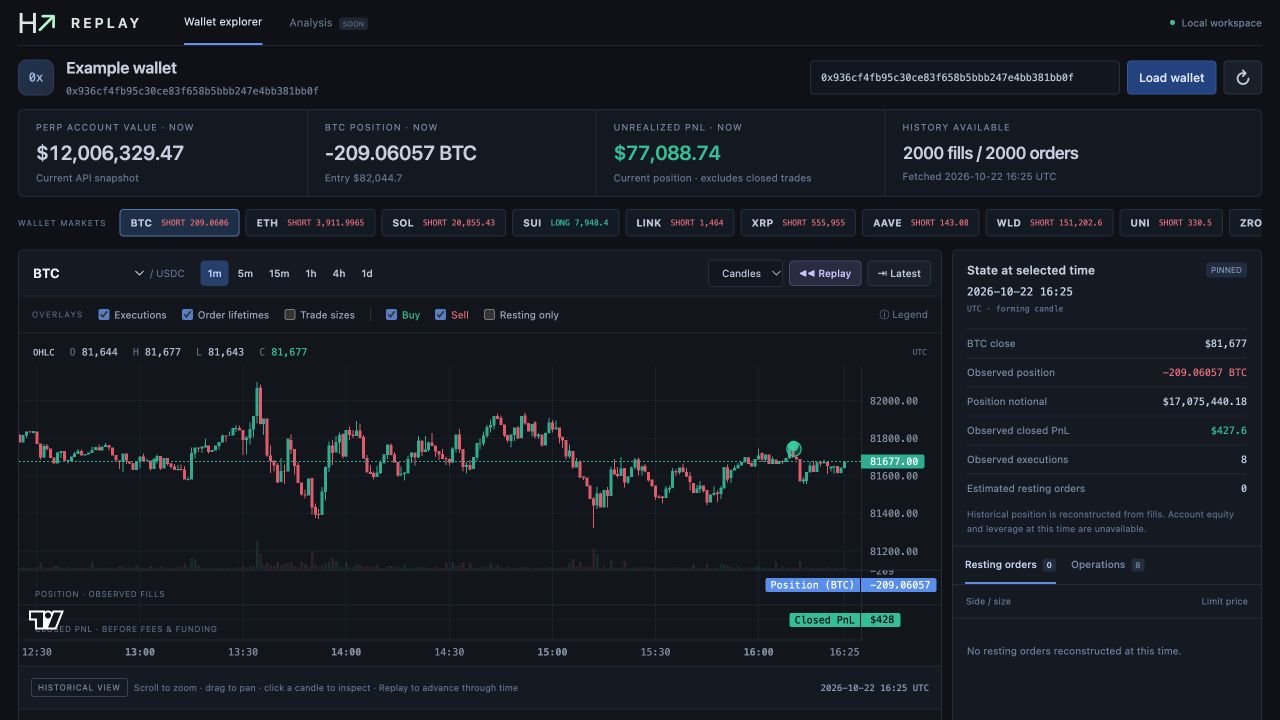
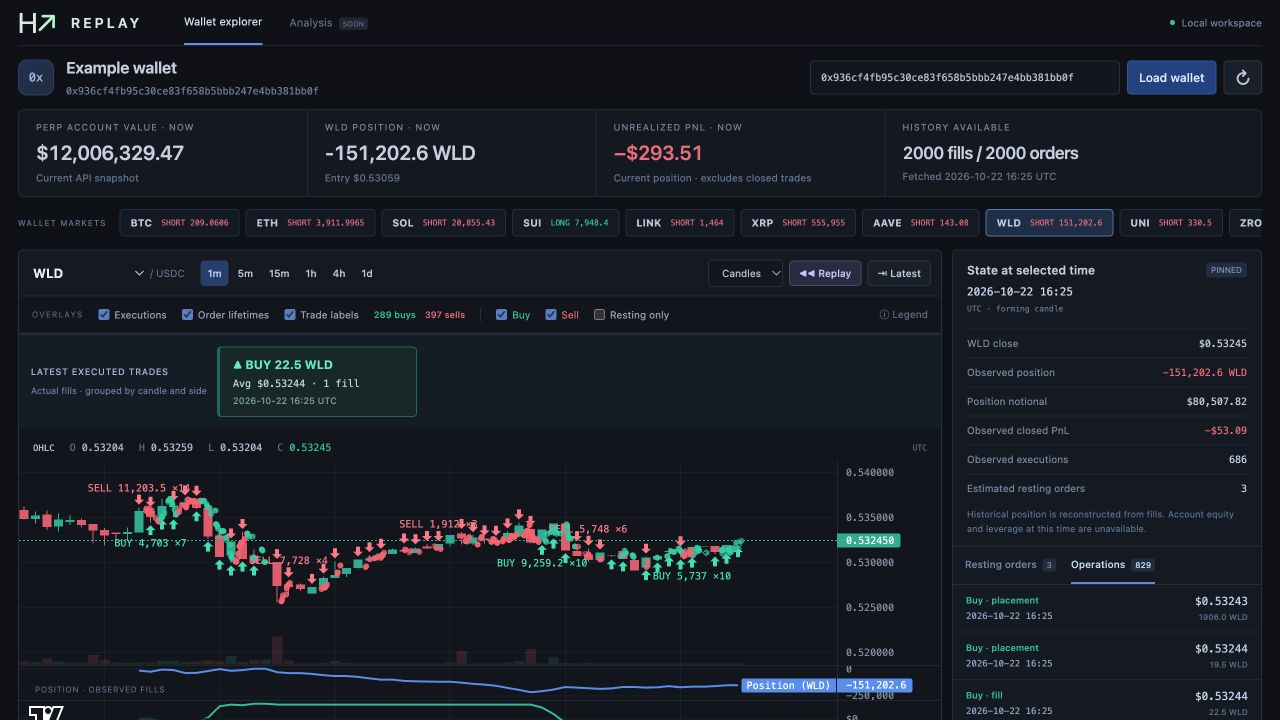
Make executions explicit and replay trades instead of empty candles

diff --git a/src/main.tsx b/src/main.tsx
@@ -2,6 +2,7 @@ import { useEffect, useMemo, useState } from 'react';
 import { createRoot } from 'react-dom/client';
 import { eventsFrom, stateAt, type Snapshot, type ReplayEvent } from '../shared/replay';
 import { EXAMPLE_WALLET, INTERVALS, candleIndexAt, type Candle, type Interval } from '../shared/market';
+import { executionGroups, tradeBars, nextTradeBar } from '../shared/executions';
 import { MarketChart } from './MarketChart';
 import type { OverlayOptions } from './OperationOverlay';
 import './style.css';
@@ -20,15 +21,16 @@ function App(){
   const [cursor,setCursor]=useState(0);
   const [replay,setReplay]=useState(false);
   const [playing,setPlaying]=useState(false);
-  const [speed,setSpeed]=useState(4);
+  const [speed,setSpeed]=useState(1);
+  const [replayMode,setReplayMode]=useState<'trades'|'candles'>('trades');
   const [busy,setBusy]=useState(false);
   const [chartBusy,setChartBusy]=useState(false);
   const [error,setError]=useState('');
   const [chartError,setChartError]=useState('');
   const [retry,setRetry]=useState(0);
   const [chartType,setChartType]=useState<'candles'|'line'>('candles');
-  const [options,setOptions]=useState<OverlayOptions>({fills:true,orders:true,labels:false,buys:true,sells:true,currentOnly:false});
-  const [tab,setTab]=useState<'orders'|'events'>('orders');
+  const [options,setOptions]=useState<OverlayOptions>({fills:true,orders:true,labels:true,buys:true,sells:true,currentOnly:false});
+  const [tab,setTab]=useState<'orders'|'events'>('events');
   const [selectedEvent,setSelectedEvent]=useState<ReplayEvent>();
   const [resetKey,setResetKey]=useState(0);
   const allEvents=useMemo(()=>snapshot?eventsFrom(snapshot):[],[snapshot]);
@@ -44,7 +46,7 @@ function App(){
         if(response.status===404)next=await request<Snapshot>(`/api/wallet/${address}/sync`,'POST');
         else {const body=await response.json();if(!response.ok)throw new Error(body.error);next=body;}
       }
-      setSnapshot(next);const normalized=eventsFrom(next);const available=[...new Set(normalized.map(e=>e.coin))];const selected=available.includes('BTC')?'BTC':next.account?.assetPositions[0]?.position.coin??available[0]??'BTC';setCoin(selected);const first=normalized.find(e=>e.coin===selected)?.time;setIntervalValue(suggestedInterval(first?next.fetchedAt-first:30*86400000));setSelectedEvent(undefined);
+      setSnapshot(next);const normalized=eventsFrom(next);const available=[...new Set(normalized.map(e=>e.coin))];const counts=new Map<string,number>();for(const e of normalized)if(e.kind==='fill')counts.set(e.coin,(counts.get(e.coin)??0)+1);const selected=[...counts].sort((a,b)=>b[1]-a[1])[0]?.[0]??next.account?.assetPositions[0]?.position.coin??available[0]??'BTC';setCoin(selected);const first=normalized.find(e=>e.coin===selected)?.time;setIntervalValue(suggestedInterval(first?next.fetchedAt-first:30*86400000));setSelectedEvent(undefined);
     }catch(err){setError(err instanceof Error?err.message:'Could not load wallet');}
     finally{setBusy(false);}
   }
@@ -64,20 +66,22 @@ function App(){
     }).catch(err=>{if(!controller.signal.aborted)setChartError(err.message);}).finally(()=>{if(!controller.signal.aborted)setChartBusy(false);});
     return()=>controller.abort();
   },[snapshot,coin,interval,retry]);
-  const replayStart=useMemo(()=>{const first=events.find(e=>candles.length&&e.time>=candles[0].time*1000);return Math.max(0,candleIndexAt(candles,first?first.time/1000:candles[0]?.time??0)-5);},[events,candles]);
+  const groups=useMemo(()=>executionGroups(candles,events,INTERVALS[interval]),[candles,events,interval]);
+  const bars=useMemo(()=>tradeBars(groups),[groups]);
+  const replayStart=Math.max(0,(bars[0]??0)-1);
   useEffect(()=>{
     if(!playing)return;
-    const timer=window.setInterval(()=>setCursor(value=>{if(value>=candles.length-1){setPlaying(false);return value;}return value+1;}),1000/speed);
+    const timer=window.setInterval(()=>setCursor(value=>{const next=replayMode==='trades'?nextTradeBar(bars,value,1):value<candles.length-1?value+1:undefined;if(next===undefined){setPlaying(false);return value;}return next;}),1000/speed);
     return()=>window.clearInterval(timer);
-  },[playing,speed,candles.length]);
+  },[playing,speed,candles.length,bars,replayMode]);
   useEffect(()=>{
     function key(event:KeyboardEvent){if(event.target instanceof HTMLInputElement||event.target instanceof HTMLSelectElement||event.target instanceof HTMLTextAreaElement)return;
-      if(event.code==='Space'){event.preventDefault();if(candles.length){if(!replay){setReplay(true);if(cursor>=candles.length-1)setCursor(replayStart);}setPlaying(p=>!p);}}
-      if(event.code==='ArrowRight'&&replay){event.preventDefault();setPlaying(false);setCursor(i=>Math.min(candles.length-1,i+1));}
-      if(event.code==='ArrowLeft'&&replay){event.preventDefault();setPlaying(false);setCursor(i=>Math.max(0,i-1));}
+      if(event.code==='Space'){event.preventDefault();if(candles.length){if(!replay){setReplay(true);if(cursor>=candles.length-1||replayMode==='trades'&&nextTradeBar(bars,cursor,1)===undefined)setCursor(replayStart);}setPlaying(p=>!p);}}
+      if(event.code==='ArrowRight'&&replay){event.preventDefault();setPlaying(false);setCursor(i=>replayMode==='trades'?nextTradeBar(bars,i,1)??i:Math.min(candles.length-1,i+1));}
+      if(event.code==='ArrowLeft'&&replay){event.preventDefault();setPlaying(false);setCursor(i=>replayMode==='trades'?nextTradeBar(bars,i,-1)??i:Math.max(0,i-1));}
     }
     window.addEventListener('keydown',key);return()=>window.removeEventListener('keydown',key);
-  },[replay,candles.length,cursor,replayStart]);
+  },[replay,candles.length,cursor,replayStart,bars,replayMode]);
   const step=INTERVALS[interval];
   const cutoff=candles.length?Math.min(snapshot?.fetchedAt??Infinity,((candles[cursor+1]?.time??candles[cursor]?.time+step)*1000)-1):0;
   const index=events.findLastIndex(e=>e.time<=cutoff);
@@ -87,12 +91,16 @@ function App(){
   const pnl=fills.reduce((sum,e)=>sum+Number(e.fill!.closedPnl),0);
   const marketEvents=events.filter(e=>candles.length&&e.time>=candles[0].time*1000&&e.time<(candles.at(-1)!.time+step)*1000);
   const renderedEvents=marketEvents.filter(e=>!replay||e.time<=cutoff);
+  const revealedGroups=groups.filter(g=>!replay||g.index<=cursor);
+  const focusGroups=replay?revealedGroups.filter(g=>g.index===cursor):revealedGroups.filter(g=>g.index===revealedGroups.at(-1)?.index);
+  const buyCount=marketEvents.filter(e=>e.kind==='fill'&&e.side==='B').length;
+  const sellCount=marketEvents.filter(e=>e.kind==='fill'&&e.side==='A').length;
   const current=snapshot?.account?.assetPositions.find(p=>p.position.coin===coin)?.position;
   const accountValue=snapshot?.account?Number(snapshot.account.marginSummary.accountValue):null;
   const isSpot=coin.startsWith('@')||coin.includes('/');
   const toggle=(key:keyof OverlayOptions)=>setOptions(o=>({...o,[key]:!o[key]}));
   function selectMarket(market:string){setCoin(market);setSelectedEvent(undefined);const first=allEvents.find(e=>e.coin===market)?.time;setIntervalValue(suggestedInterval(first&&snapshot?snapshot.fetchedAt-first:30*86400000));}
-  function startReplay(){if(!candles.length)return;setReplay(true);setPlaying(true);if(cursor>=candles.length-1)setCursor(replayStart);}
+  function startReplay(){if(!candles.length)return;setReplay(true);setPlaying(true);setTab('events');if(cursor>=candles.length-1||replayMode==='trades'&&nextTradeBar(bars,cursor,1)===undefined)setCursor(replayStart);}
   function latest(){setReplay(false);setPlaying(false);setCursor(Math.max(0,candles.length-1));setSelectedEvent(undefined);setResetKey(k=>k+1);}
   function seek(event:ReplayEvent){const at=candleIndexAt(candles,event.time/1000);if(at>=0){setCursor(at);setPlaying(false);setSelectedEvent(event);}}
   return <main className="terminal">
@@ -104,9 +112,10 @@ function App(){
     <section className="workspace">
       <div className="chart-column">
         <div className="chart-toolbar"><label className="market-select"><select aria-label="Market" value={coin} onChange={e=>selectMarket(e.target.value)}>{markets.map(m=><option key={m}>{m}</option>)}</select><span>/ USDC</span></label><div className="intervals">{(Object.keys(INTERVALS) as Interval[]).map(item=><button key={item} className={item===interval?'active':''} onClick={()=>setIntervalValue(item)}>{item}</button>)}</div><div className="toolbar-spacer"/><select aria-label="Chart type" value={chartType} onChange={e=>setChartType(e.target.value as 'candles'|'line')}><option value="candles">Candles</option><option value="line">Line</option></select><button className={replay?'replay-button active':'replay-button'} disabled={!candles.length||chartBusy} onClick={startReplay}>◀◀ Replay</button><button onClick={latest} disabled={!candles.length}>⇥ Latest</button></div>
-        <div className="overlay-toolbar"><span className="toolbar-label">OVERLAYS</span>{(['fills','orders','labels'] as const).map(key=><label key={key}><input type="checkbox" checked={options[key]} onChange={()=>toggle(key)}/>{key==='fills'?'Executions':key==='orders'?'Order lifetimes':'Trade sizes'}</label>)}<span className="divider"/>{(['buys','sells'] as const).map(key=><label className={key==='buys'?'positive':'negative'} key={key}><input type="checkbox" checked={options[key]} onChange={()=>toggle(key)}/>{key==='buys'?'Buy':'Sell'}</label>)}<label><input type="checkbox" checked={options.currentOnly} onChange={()=>toggle('currentOnly')}/>Resting only</label><span className="legend-info" title="Circles are API fill records. Dashed lines are estimated order lifetimes from order timestamps and latest fields.">ⓘ Legend</span></div>
+        <div className="overlay-toolbar"><span className="toolbar-label">OVERLAYS</span>{(['fills','orders','labels'] as const).map(key=><label key={key}><input type="checkbox" checked={options[key]} onChange={()=>toggle(key)}/>{key==='fills'?'Executions':key==='orders'?'Order lifetimes':'Trade labels'}</label>)}<span className="execution-counts"><b className="positive">{buyCount} buys</b><b className="negative">{sellCount} sells</b></span><span className="divider"/>{(['buys','sells'] as const).map(key=><label className={key==='buys'?'positive':'negative'} key={key}><input type="checkbox" checked={options[key]} onChange={()=>toggle(key)}/>{key==='buys'?'Buy':'Sell'}</label>)}<label><input type="checkbox" checked={options.currentOnly} onChange={()=>toggle('currentOnly')}/>Resting only</label><span className="legend-info" title="Circles are API fill records. Dashed lines are estimated order lifetimes from order timestamps and latest fields.">ⓘ Legend</span></div>
+        <div className="trade-focus" aria-live="polite"><div className="trade-focus-title">{replay?'TRADES AT REPLAY CURSOR':'LATEST EXECUTED TRADES'}<small>{replay?'One step per candle containing executions':'Actual fills · grouped by candle and side'}</small></div>{focusGroups.length?focusGroups.map(g=><button key={`${g.index}:${g.side}`} className={`trade-card ${g.side==='B'?'trade-buy':'trade-sell'}`} onClick={()=>{seek(g.events.at(-1)!);setTab('events');}}><b>{g.side==='B'?'▲ BUY':'▼ SELL'} {fmt(g.size,5)} {coin}</b><span>Avg {price(g.price)} · {g.count} fill{g.count===1?'':'s'}</span><small>{date(candles[g.index].time)} UTC</small></button>):<span className="no-execution">{replay?'No executions in this candle. The next trade step jumps to the next execution.':'No executions for this market in the fetched history.'}</span>}</div>
         <div className="chart-container"><MarketChart coin={coin} barSeconds={step} candles={candles} events={events} cursor={cursor} replay={replay} options={options} chartType={chartType} resetKey={`${resetKey}:${coin}:${interval}`} onSelect={i=>{setCursor(i);setPlaying(false);setSelectedEvent(undefined);}}/>{(chartBusy||busy)&&<div className="chart-loading"><span className="spinner"/>Loading {busy?'wallet history':'market candles'}…</div>}{chartError&&<div className="chart-loading"><p>{chartError}</p><button onClick={()=>setRetry(r=>r+1)}>Retry candles</button></div>}</div>
-        <div className={`replay-strip ${replay?'is-replay':''}`}><span className="mode-pill">{replay?'REPLAY':'HISTORICAL VIEW'}</span>{replay?<><button aria-label="Previous candle" onClick={()=>{setPlaying(false);setCursor(i=>Math.max(0,i-1));}}>◁</button><button className="play-button" onClick={()=>{if(cursor===candles.length-1)setCursor(replayStart);setPlaying(p=>!p);}}>{playing?'Ⅱ Pause':'▶ Play'}</button><button aria-label="Next candle" onClick={()=>{setPlaying(false);setCursor(i=>Math.min(candles.length-1,i+1));}}>▷</button><select aria-label="Playback speed" value={speed} onChange={e=>setSpeed(Number(e.target.value))}>{[1,4,12,30].map(s=><option key={s} value={s}>{s} bars/s</option>)}</select><input aria-label="Replay timeline" type="range" min={0} max={Math.max(0,candles.length-1)} value={Math.min(cursor,Math.max(0,candles.length-1))} onChange={e=>{setPlaying(false);setCursor(Number(e.target.value));}}/><button onClick={latest}>Exit replay</button></>:<span className="replay-hint">Scroll to zoom · drag to pan · click a candle to inspect · Replay to advance through time</span>}<time>{candles[cursor]?`${date(candles[cursor].time)} UTC`:'—'}</time></div>
+        <div className={`replay-strip ${replay?'is-replay':''}`}><span className="mode-pill">{replay?'REPLAY':'HISTORICAL VIEW'}</span>{replay?<><button aria-label="Previous trade or candle" onClick={()=>{setPlaying(false);setCursor(i=>replayMode==='trades'?nextTradeBar(bars,i,-1)??i:Math.max(0,i-1));}}>◁</button><button className="play-button" onClick={()=>{if(cursor===candles.length-1||replayMode==='trades'&&nextTradeBar(bars,cursor,1)===undefined)setCursor(replayStart);setPlaying(p=>!p);}}>{playing?'Ⅱ Pause':'▶ Play'}</button><button aria-label="Next trade or candle" onClick={()=>{setPlaying(false);setCursor(i=>replayMode==='trades'?nextTradeBar(bars,i,1)??i:Math.min(candles.length-1,i+1));}}>▷</button><select aria-label="Replay mode" value={replayMode} onChange={e=>{setPlaying(false);setReplayMode(e.target.value as 'trades'|'candles');}}><option value="trades">Trade replay</option><option value="candles">Candle replay</option></select><select aria-label="Playback speed" value={speed} onChange={e=>setSpeed(Number(e.target.value))}>{[1,4,12,30].map(s=><option key={s} value={s}>{s} steps/s</option>)}</select><input aria-label="Replay timeline" type="range" min={0} max={Math.max(0,candles.length-1)} value={Math.min(cursor,Math.max(0,candles.length-1))} onChange={e=>{setPlaying(false);setCursor(Number(e.target.value));}}/><button onClick={latest}>Exit replay</button></>:<span className="replay-hint">Scroll to zoom · drag to pan · click a candle to inspect · Replay to follow executed trades</span>}<time>{candles[cursor]?`${date(candles[cursor].time)} UTC`:'—'}</time></div>
         <div className="coverage-strip"><span className="status-dot"/><span>{candles.length?`${candles.length.toLocaleString()} candles · ${date(candles[0].time).slice(0,10)} — ${date(candles.at(-1)!.time).slice(0,10)}`:'Waiting for market data'}</span><span>{marketEvents.filter(e=>e.kind==='fill').length} fills in chart window</span>{events.length>marketEvents.length&&<span className="amber">{events.length-marketEvents.length} operations outside candle coverage</span>}<a href="https://www.tradingview.com/" target="_blank" rel="noreferrer">Charts by TradingView</a></div>
       </div>
       <aside className="inspector"><div className="inspector-heading"><h2>State at selected time</h2><span className={replay?'replay-dot':'pinned-dot'}>{replay?'REPLAY':'PINNED'}</span></div><div className="selected-date">{candles[cursor]?date(candles[cursor].time):'—'} <small>UTC · {candles[cursor]&&snapshot&&(candles[cursor].time+step)*1000>snapshot.fetchedAt?'forming candle':'candle close'}</small></div><dl><dt>{coin} close</dt><dd>{candles[cursor]?price(candles[cursor].close):'—'}</dd><dt>Observed position</dt><dd className={state.position!==null&&state.position<0?'negative':'positive'}>{state.position===null||isSpot?'Unknown':`${fmt(state.position,5)} ${coin}`}</dd><dt>Position notional</dt><dd>{state.position!==null&&!isSpot&&candles[cursor]?usd(Math.abs(state.position*candles[cursor].close)):'—'}</dd><dt>Observed closed PnL</dt><dd className={pnl>=0?'positive':'negative'}>{fills.length?usd(pnl):'—'}</dd><dt>Observed executions</dt><dd>{fills.length}</dd><dt>Estimated resting orders</dt><dd>{state.orders.length}</dd></dl><p className="inspector-note">{events.some(e=>e.kind==='fill')?'':`No ${coin} fills were returned in the bounded wallet history. `}Historical position is reconstructed from fills. Account equity and leverage at this time are unavailable.</p>{!isSpot&&state.discontinuities>0&&<p className="gap-warning">{state.discontinuities} position gaps detected in the available fills.</p>}

diff --git a/src/style.css b/src/style.css
@@ -1,3 +1,4 @@
 :root{font-family:Inter,-apple-system,BlinkMacSystemFont,'Segoe UI',sans-serif;color:#cdd5e3;background:#0c1018;font-synthesis:none;color-scheme:dark;font-size:12px}*{box-sizing:border-box}body{margin:0}button,input,select{font:inherit}button,select{cursor:pointer}button{border:1px solid #303a4c;border-radius:4px;background:#1b2331;color:#c4cede;padding:7px 11px;white-space:nowrap;font-weight:500}button:hover:not(:disabled){background:#283349;color:#fff}button:disabled{opacity:.4;cursor:default}input,select{background:#111722;color:#bec9dc;border:1px solid #2c3649;border-radius:4px;padding:7px 8px}button:focus-visible,input:focus-visible,select:focus-visible,a:focus-visible,summary:focus-visible{outline:2px solid #709cf7;outline-offset:2px}a{color:#8ea6ca;text-decoration:none}a:hover{color:#c4d9ff}.terminal{max-width:2200px;margin:auto;padding:0 18px}.topbar{height:57px;display:flex;align-items:center;border-bottom:1px solid #232b3c;gap:42px}.brand{display:flex;align-items:center;gap:9px;font-size:15px;font-weight:600;color:#e3eaf6;letter-spacing:-.3px}.brand b{color:#8b9cb8;font-weight:400}.brand-mark{display:grid;place-content:center;width:25px;height:25px;background:#183b38;color:#64d9bf;transform:skew(-8deg);font-size:17px}.top-nav{display:flex;gap:27px;height:100%;align-items:center;font-size:11px}.nav-active{height:100%;display:flex;align-items:center;border-bottom:2px solid #729bf6;color:#dce5f5}.nav-disabled{color:#6f7d95}.nav-disabled small{font-size:7px;padding:2px 4px;background:#232b3b;margin-left:3px;border-radius:3px}.local-badge{margin-left:auto;color:#7e8fa9;font-size:10px;display:flex;align-items:center;gap:7px}.local-badge i,.status-dot{display:inline-block;width:5px;height:5px;background:#43c5a5;border-radius:50%}.walletbar{display:flex;align-items:center;justify-content:space-between;padding:20px 0;gap:20px}.wallet-title{display:flex;align-items:center;gap:12px}.avatar{width:36px;height:36px;border-radius:9px;background:linear-gradient(140deg,#23395c,#263249);border:1px solid #354769;display:grid;place-content:center;color:#abc4ed;font:12px ui-monospace,monospace}h1{font-size:16px;letter-spacing:-.2px;font-weight:600;margin:0 0 6px}.address-label{font:10px ui-monospace,monospace;color:#7788a3}.walletbar form{display:flex;gap:7px}.walletbar input{width:310px;font:10px ui-monospace,monospace;padding:10px}.walletbar form>button:not(.button-icon){background:#254b8e;border-color:#3761a6;color:#e3ecff}.button-icon{font-size:18px;padding:2px 11px}.account-strip{display:grid;grid-template-columns:1fr 1fr 1fr 1.3fr;margin-bottom:18px;border:1px solid #273044;background:#121925;border-radius:6px}.metric{padding:15px 19px;border-right:1px solid #273044;min-width:0}.metric:last-child{border:0}.metric>span{display:block;color:#8292ad;font-size:9px;letter-spacing:1px}.metric strong{display:block;margin:10px 0 8px;font-size:22px;font-weight:550;letter-spacing:-.4px;font-variant-numeric:tabular-nums}.metric:last-child strong{font-size:18px;margin-top:12px}.metric small{color:#6f809b;font-size:10px}.positive{color:#2ec6a4!important}.negative{color:#ee7786!important}.workspace{display:grid;grid-template-columns:minmax(0,1fr) 310px;gap:10px;align-items:start}.chart-column{min-width:0;border:1px solid #283247;border-radius:5px;background:#11151e;overflow:hidden}.chart-toolbar{display:flex;gap:6px;align-items:center;min-height:46px;padding:7px 10px;border-bottom:1px solid #252e40;flex-wrap:wrap;background:#151b27}.market-select{display:flex;gap:5px;align-items:center;font-size:11px;margin-right:10px}.market-select select{background:transparent;border:0;color:#edf2fc;font-weight:650;font-size:13px;padding-left:0;max-width:120px}.market-select>span{font-size:10px;color:#697d9b}.intervals{display:flex;gap:2px}.intervals button{background:transparent;border:0;font-size:10px;padding:7px}.intervals button.active{background:#294979;color:#c6dcff}.toolbar-spacer{flex:1}.chart-toolbar>button,.chart-toolbar>select{font-size:10px;padding:6px 9px}.replay-button{background:#30304a;border-color:#525076;color:#d1c9ff}.replay-button.active{background:#473c6b}.overlay-toolbar{height:37px;display:flex;align-items:center;gap:15px;padding:0 13px;border-bottom:1px solid #232b3a;flex-wrap:wrap}.toolbar-label{font-size:8px;letter-spacing:1.1px;color:#647690}.overlay-toolbar label{display:flex;align-items:center;gap:5px;color:#a3b0c5;font-size:10px;cursor:pointer}.overlay-toolbar input{accent-color:#6489d1;width:11px;height:11px;margin:0}.divider{height:14px;width:1px;background:#2b3445}.legend-info{margin-left:auto;color:#6c7c95;font-size:10px}.chart-container{position:relative}.chart-frame{position:relative}.chart-host{height:665px;width:100%}.ohlc{display:flex;align-items:center;gap:15px;padding:12px 14px 7px;font:10px ui-monospace,monospace;color:#677a96;height:32px}.ohlc b{color:#bdc9dd;font-weight:500;font-size:9px}.ohlc em{font-style:normal;color:#b4c2d7}.utc-label{margin-left:auto;font-size:8px}.pane-label{position:absolute;left:12px;pointer-events:none;color:#657997;font-size:8px;letter-spacing:.6px;background:#11151ec9;padding:2px 4px;z-index:2}.position-label{top:76%}.pnl-label{top:87.5%}.chart-loading{position:absolute;inset:32px 0 0;background:#11151eee;display:flex;align-items:center;justify-content:center;gap:10px;flex-direction:column;color:#8d9fba;z-index:5}.spinner{width:22px;height:22px;border:2px solid #263653;border-top-color:#7da5ef;border-radius:50%;animation:spin .8s linear infinite}@keyframes spin{to{transform:rotate(360deg)}}.replay-strip{display:flex;gap:6px;align-items:center;min-height:43px;padding:8px 12px;background:#151b27;border-top:1px solid #2a3446}.mode-pill{font-size:8px;letter-spacing:.7px;color:#8296b5;border:1px solid #3b4a63;border-radius:3px;padding:4px 6px;white-space:nowrap}.is-replay .mode-pill{border-color:#66508c;color:#c8b1f1;background:#2e2543}.replay-strip button,.replay-strip select{font-size:10px;padding:5px 8px}.replay-strip input[type=range]{min-width:50px;flex:1;accent-color:#a58bde;padding:0}.replay-hint{font-size:9px;color:#6c7f9b;flex:1}.replay-strip time{font:9px ui-monospace,monospace;white-space:nowrap;color:#99aac5;margin-left:auto}.play-button{background:#345787;border-color:#486b9a}.coverage-strip{display:flex;align-items:center;gap:10px;padding:9px 12px;font-size:8px;color:#687d9b;border-top:1px solid #263044;min-height:31px;flex-wrap:wrap}.coverage-strip a{margin-left:auto;font-size:8px;color:#748bab}.amber{color:#c2a476}.inspector{border:1px solid #283247;border-radius:5px;background:#131a26;overflow:hidden;min-width:0}.inspector-heading{display:flex;align-items:center;justify-content:space-between;padding:14px 14px 8px}.inspector h2{font-size:12px;font-weight:550;margin:0}.pinned-dot,.replay-dot{font-size:8px;color:#8d9fbd;background:#24324c;padding:3px 5px;border-radius:3px}.replay-dot{color:#c5b2ee;background:#3b2e55}.selected-date{padding:0 14px 15px;font:11px ui-monospace,monospace;color:#d1dcf0}.selected-date small{color:#6c819f;font:8px ui-monospace,monospace;display:block;margin-top:6px}.inspector dl{display:grid;grid-template-columns:1fr auto;gap:0;margin:0 14px}.inspector dt,.inspector dd{border-top:1px solid #232e40;margin:0;padding:9px 0;font-size:10px}.inspector dt{color:#8293ad}.inspector dd{text-align:right;font-family:ui-monospace,monospace;color:#c5d1e4}.inspector-note{color:#697f9f;font-size:9px;line-height:1.6;padding:5px 14px 9px;margin:0}.gap-warning{margin:0 14px 12px;color:#cea474;font-size:10px}.side-tabs{display:flex;border-top:1px solid #2a3448;border-bottom:1px solid #2a3448;padding:0 12px;gap:15px}.side-tabs button{border:0;border-bottom:2px solid transparent;background:none;padding:12px 0;font-size:10px;color:#7e91af;border-radius:0}.side-tabs button.active{color:#cadcf7;border-bottom-color:#6d97e7}.side-tabs small{font-size:8px;background:#263348;padding:2px 4px;border-radius:3px;margin-left:3px}.side-list{height:410px;overflow:auto;scrollbar-width:thin;scrollbar-color:#33425c transparent}.list-head{display:flex;justify-content:space-between;padding:11px 13px;color:#6d829f;font-size:9px;position:sticky;top:0;background:#131a26;border-bottom:1px solid #283348}.order-item{display:flex;align-items:center;justify-content:space-between;width:100%;background:transparent;border:0;border-bottom:1px solid #202c40;border-radius:0;padding:10px 13px;text-align:left}.order-item>div{display:flex;flex-direction:column;gap:5px}.order-item>div:last-child{text-align:right}.order-item b{font-size:10px;font-weight:550}.order-item strong{font:11px ui-monospace,monospace;font-weight:500;color:#c9d7ee}.order-item span{font:9px ui-monospace,monospace;color:#9aacca}.order-item small{color:#697c99;font-size:8px}.event-item b{font-size:9px}.empty-note{font-size:10px;color:#7488a7;padding:14px;line-height:1.7}.event-detail{position:relative;border-top:1px solid #33415a;padding:15px;background:#1c273a}.event-detail h3{font-size:12px;text-transform:capitalize}.event-detail p{font-size:10px;line-height:1.6;color:#9aabc6}.close-detail{float:right;border:0;background:transparent;font-size:18px;padding:0 3px}.data-notes{margin-top:12px;border:1px solid #273247;border-radius:4px;background:#111925}.data-notes summary{display:flex;justify-content:space-between;cursor:pointer;font-size:10px;color:#8195b4;padding:12px 14px}.data-notes summary span:last-child{font-size:9px;color:#627894}.data-notes>div{padding:0 15px 10px;max-width:1200px}.data-notes p{font-size:10px;line-height:1.7;color:#7c90af}.data-notes b{color:#a5b8d4;font-weight:500}footer{display:flex;gap:15px;align-items:center;padding:14px 0;font-size:8px;color:#526b8e}footer>span{display:flex;gap:6px;align-items:center}footer a{margin-left:auto;font-size:9px;color:#6d86aa}.error-banner{border:1px solid #7d3a46;background:#3d202c;color:#f1a2b2;padding:12px;margin-bottom:12px}.chart-host table td{padding:0}@media(min-width:1600px){.workspace{grid-template-columns:minmax(0,1fr) 350px}.chart-host{height:730px}.side-list{height:475px}}@media(max-width:1150px){.workspace{grid-template-columns:minmax(0,1fr) 270px}.walletbar input{width:250px}.overlay-toolbar{gap:9px}.legend-info,.toolbar-label{display:none}.chart-toolbar{gap:4px}.chart-host{height:600px}.metric strong{font-size:18px}.metric:last-child strong{font-size:15px}.replay-hint{font-size:8px}.replay-strip{flex-wrap:wrap}.side-list{height:345px}.walletbar{gap:10px}.wallet-title .address-label{font-size:8px}.topbar{gap:25px}}@media(max-width:850px){.terminal{padding:0 10px}.workspace{grid-template-columns:1fr}.walletbar{flex-wrap:wrap;padding:14px 0}.walletbar form{width:100%}.walletbar input{flex:1;min-width:0}.account-strip{grid-template-columns:repeat(2,1fr)}.metric:nth-child(2){border-right:0}.metric:nth-child(-n+2){border-bottom:1px solid #273044}.inspector{display:block}.side-list{height:300px}.chart-host{height:590px}.ohlc{gap:8px;font-size:9px}.top-nav{display:none}.overlay-toolbar{height:auto;padding:9px 10px;gap:10px}.toolbar-spacer{display:none}.chart-toolbar{gap:8px}.market-select{margin-right:auto}.replay-hint{display:none}.replay-strip time{font-size:9px}.coverage-strip a{margin-left:0}.data-notes summary span:last-child{display:none}}@media(prefers-reduced-motion:reduce){.spinner{animation:none}}
 @media(min-width:851px){.topbar{height:46px}.walletbar{padding:12px 0}.metric{padding:12px 17px}.metric strong{margin:8px 0 6px;font-size:20px}.metric:last-child strong{margin-top:10px;font-size:17px}.account-strip{margin-bottom:12px}.chart-host{height:clamp(300px,calc(100dvh - 425px),800px)}.side-list{height:clamp(200px,calc(100dvh - 535px),550px)}.inspector-heading{padding-top:12px}.inspector dt,.inspector dd{padding:8px 0}.position-label{top:76.5%}.pnl-label{top:87%}}
 .original-mark{font-size:28px;font-weight:400;letter-spacing:-2px;line-height:1;color:#e3ece6}.original-mark>span{color:#b8f7d4}.brand .original-wordmark{font-size:14px;letter-spacing:3px;margin-left:6px;color:#dce9e2;font-weight:600}.market-shortcuts{display:flex;align-items:center;gap:6px;margin-bottom:10px;overflow-x:auto;scrollbar-width:thin;padding-bottom:3px}.market-shortcuts>span{font-size:8px;letter-spacing:1px;color:#6d829e;margin-right:7px;white-space:nowrap}.market-shortcuts button{display:flex;gap:9px;align-items:center;background:#131c29;border:1px solid #27354a;padding:7px 10px}.market-shortcuts button.active{border-color:#5e80b5;background:#203451}.market-shortcuts b{font-size:10px;letter-spacing:.2px}.market-shortcuts small{font:8px ui-monospace,monospace;color:#627a9c}@media(min-width:851px){.chart-host{height:clamp(300px,calc(100dvh - 462px),800px)}}
+.overlay-toolbar{height:auto;min-height:37px;padding-top:8px;padding-bottom:8px}.execution-counts{display:flex;gap:9px;font-size:9px}.execution-counts b{font-weight:500}.trade-focus{display:flex;gap:10px;align-items:stretch;padding:12px;background:#131e2b;border-top:1px solid #30405a;flex-wrap:wrap}.trade-focus-title{font-size:9px;letter-spacing:.6px;color:#b4c4df;min-width:160px;display:flex;flex-direction:column;justify-content:center;gap:7px}.trade-focus-title small{font-size:9px;letter-spacing:0;color:#7188aa;max-width:190px;line-height:1.5}.trade-card{display:flex;flex-direction:column;gap:6px;text-align:left;min-width:200px;padding:10px 13px;background:#162d2b;border:1px solid #267264;border-left-width:3px}.trade-card b{font-size:12px;color:#67efc5}.trade-card span{font:10px ui-monospace,monospace;color:#bed9d5}.trade-card small{font-size:9px;color:#7fa39b}.trade-card.trade-sell{background:#30202a;border-color:#934658}.trade-card.trade-sell b{color:#ff9bae}.trade-card.trade-sell span{color:#e8c1cd}.trade-card.trade-sell small{color:#ac7e8d}.no-execution{font-size:10px;line-height:1.7;padding:10px;color:#8b9db8;flex:1}.replay-strip{flex-wrap:wrap}.replay-strip input[type=range]{flex-basis:80px}@media(max-width:850px){.trade-card{flex:1}.execution-counts{margin-right:auto}}

diff --git a/src/MarketChart.tsx b/src/MarketChart.tsx
@@ -1,13 +1,14 @@
 import { useEffect, useRef, useState } from 'react';
-import { createChart, CandlestickSeries, LineSeries, HistogramSeries, ColorType, CrosshairMode, type IChartApi, type ISeriesApi, type UTCTimestamp, type Time } from 'lightweight-charts';
+import { createSeriesMarkers, createChart, CandlestickSeries, LineSeries, HistogramSeries, ColorType, CrosshairMode, type IChartApi, type ISeriesApi, type UTCTimestamp, type Time, type ISeriesMarkersPluginApi } from 'lightweight-charts';
 import type { Candle } from '../shared/market';
 import { candleIndexAt } from '../shared/market';
+import { executionGroups } from '../shared/executions';
 import type { ReplayEvent } from '../shared/replay';
 import { OperationOverlay, type OverlayOptions } from './OperationOverlay';
 interface Props { coin:string; barSeconds:number; candles:Candle[]; events:ReplayEvent[]; cursor:number; replay:boolean; options:OverlayOptions; chartType:'candles'|'line'; onSelect:(index:number)=>void; resetKey:string; }
 export function MarketChart({coin,barSeconds,candles,events,cursor,replay,options,chartType,onSelect,resetKey}:Props) {
   const host=useRef<HTMLDivElement>(null);
-  const api=useRef<{ chart:IChartApi; price:ISeriesApi<'Candlestick'>; line:ISeriesApi<'Line'>; volume:ISeriesApi<'Histogram'>; position:ISeriesApi<'Line'>; pnl:ISeriesApi<'Line'>; overlay:OperationOverlay; overlayOn: 'candles'|'line' } | null>(null);
+  const api=useRef<{ chart:IChartApi; price:ISeriesApi<'Candlestick'>; line:ISeriesApi<'Line'>; volume:ISeriesApi<'Histogram'>; position:ISeriesApi<'Line'>; pnl:ISeriesApi<'Line'>; overlay:OperationOverlay; overlayOn: 'candles'|'line'; priceMarkers:ISeriesMarkersPluginApi<Time>; lineMarkers:ISeriesMarkersPluginApi<Time> } | null>(null);
   const latest=useRef({candles,onSelect});latest.current={candles,onSelect};
   const [hover,setHover]=useState<Candle>();
   useEffect(()=>{
@@ -30,7 +31,8 @@ export function MarketChart({coin,barSeconds,candles,events,cursor,replay,option
     const overlay=new OperationOverlay();price.attachPrimitive(overlay);
     chart.subscribeCrosshairMove(param=>{if(param.time){const i=candleIndexAt(latest.current.candles,Number(param.time));setHover(latest.current.candles[i]);}else setHover(undefined);});
     chart.subscribeClick(param=>{if(param.time){const i=candleIndexAt(latest.current.candles,Number(param.time));if(i>=0)latest.current.onSelect(i);}});
-    api.current={chart,price,line,volume,position,pnl,overlay,overlayOn:'candles'};
+    const priceMarkers=createSeriesMarkers(price,[],{autoScale:true});const lineMarkers=createSeriesMarkers(line,[],{autoScale:true});
+    api.current={chart,price,line,volume,position,pnl,overlay,overlayOn:'candles',priceMarkers,lineMarkers};
     return()=>{chart.remove();api.current=null;};
   },[]);
   useEffect(()=>{
@@ -45,6 +47,15 @@ export function MarketChart({coin,barSeconds,candles,events,cursor,replay,option
     a.line.setData(full.map(c=>c.time<=cutoff?{time:c.time,value:c.close}:{time:c.time}));
     if(a.overlayOn!==chartType){(a.overlayOn==='candles'?a.price:a.line).detachPrimitive(a.overlay);(chartType==='candles'?a.price:a.line).attachPrimitive(a.overlay);a.overlayOn=chartType;}
     a.price.applyOptions({visible:chartType==='candles'});a.line.applyOptions({visible:chartType==='line'});
+    const summaryGroups=executionGroups(candles,events,barSeconds);
+    const spacing=Math.max(1,Math.ceil(((summaryGroups.at(-1)?.index??0)-(summaryGroups[0]?.index??0))/4));
+    const lastLabel={A:-Infinity,B:-Infinity};
+    const markers=summaryGroups.filter(g=>(!replay||g.index<=cursor)&&options.fills&&(g.side==='B'?options.buys:options.sells)).map(g=>{const label=g.index-lastLabel[g.side]>=spacing;if(label)lastLabel[g.side]=g.index;return {
+      time:candles[g.index].time as UTCTimestamp,position:g.side==='B'?'belowBar' as const:'aboveBar' as const,
+      shape:g.side==='B'?'arrowUp' as const:'arrowDown' as const,color:g.side==='B'?'#40e4b6':'#ff8294',
+      text:label?`${g.side==='B'?'BUY':'SELL'}${options.labels?' '+g.size.toLocaleString('en-US',{maximumFractionDigits:3}):''}${g.count>1?' ×'+g.count:''}`:'',size:1,
+    };});
+    a.priceMarkers.setMarkers(chartType==='candles'?markers:[]);a.lineMarkers.setMarkers(chartType==='line'?markers:[]);
     a.volume.setData(full.map(c=>c.time<=cutoff?{time:c.time,value:c.volume,color:c.close>=c.open?'#29b69a30':'#e5647730'}:{time:c.time}));
     const fills=events.filter(e=>e.fill);let j=0,position:number|null=null,pnl=0;
     const positions:({time:UTCTimestamp;value:number}|{time:UTCTimestamp})[]=[],pnls:({time:UTCTimestamp;value:number}|{time:UTCTimestamp})[]=[];
@@ -59,7 +70,7 @@ export function MarketChart({coin,barSeconds,candles,events,cursor,replay,option
     a.overlay.candles=candles;a.overlay.events=events;a.overlay.cutoff=replay?(candles[cursor+1]?.time??(candles[cursor]?.time??0)+barSeconds)-.001:Infinity;a.overlay.options=options;a.overlay.refresh();
   },[candles,events,cursor,replay,options,chartType,coin,barSeconds]);
   useEffect(()=>{if(replay&&candles.length)api.current?.chart.timeScale().setVisibleLogicalRange({from:Math.max(-5,cursor-100),to:Math.max(100,cursor+15)});},[cursor,replay,candles]);
-  useEffect(()=>{const a=api.current;if(!a||!candles.length)return;a.chart.timeScale().fitContent();},[candles,resetKey]);
+  useEffect(()=>{const a=api.current;if(!a||!candles.length)return;const executions=executionGroups(candles,events,barSeconds);if(executions.length)a.chart.timeScale().setVisibleLogicalRange({from:Math.max(-2,executions[0].index-10),to:candles.length+7});else a.chart.timeScale().fitContent();},[candles,resetKey]);
   const formatPrice=(value:number)=>value.toLocaleString('en-US',{maximumFractionDigits:value>=100?2:value>=1?4:value>=.01?6:8});
   const candle=(hover && (!replay || hover.time <= (candles[cursor]?.time ?? 0)) ? hover : undefined)??candles[replay?cursor:candles.length-1];
   return <div className="chart-frame"><div className="ohlc"><b>OHLC</b>{candle?<><span>O <em>{formatPrice(candle.open)}</em></span><span>H <em>{formatPrice(candle.high)}</em></span><span>L <em>{formatPrice(candle.low)}</em></span><span>C <em className={candle.close>=candle.open?'positive':'negative'}>{formatPrice(candle.close)}</em></span></>:<span>No candle selected</span>}<span className="utc-label">UTC</span></div><div className="chart-host" ref={host} role="img" aria-label="Interactive candlestick chart with volume, historical fills, order lifetimes, position, and observed closed PnL"/><span className="pane-label position-label">POSITION · OBSERVED FILLS</span><span className="pane-label pnl-label">CLOSED PNL · BEFORE FEES & FUNDING</span></div>;

diff --git a/tests/executions.test.ts b/tests/executions.test.ts
@@ -1,0 +1,21 @@
+import {test} from 'node:test';
+import assert from 'node:assert/strict';
+import {executionGroups,nextTradeBar,tradeBars} from '../shared/executions.js';
+import type {ReplayEvent} from '../shared/replay.js';
+const candles=[100,160,220,280].map(time=>({time,open:10,high:15,low:8,close:11,volume:1}));
+const fill=(time:number,side:'A'|'B',size:string,price:string):ReplayEvent=>({id:`${time}`,time:time*1000,coin:'BTC',oid:1,side,size,price,kind:'fill',evidence:'reported'});
+test('trade markers aggregate partial fills by candle and side with volume-weighted price',()=>{
+ const events=[fill(101,'B','2','10'),fill(120,'B','1','13'),fill(130,'A','1','12')];
+ const groups=executionGroups(candles,events,60);
+ assert.equal(groups.length,2);assert.equal(groups[0].count,2);assert.equal(groups[0].size,3);assert.equal(groups[0].price,11);
+ assert.equal(groups[1].side,'A');assert.equal(events.length,3);
+});
+test('trade replay skips empty candles and stops after the last observed execution',()=>{
+ const groups=executionGroups(candles,[fill(101,'B','1','10'),fill(230,'A','1','12')],60);
+ const bars=tradeBars(groups);assert.deepEqual(bars,[0,2]);
+ assert.equal(nextTradeBar(bars,0,1),2);assert.equal(nextTradeBar(bars,2,1),undefined);assert.equal(nextTradeBar(bars,2,-1),0);
+});
+test('markers exclude executions outside candle coverage and put boundary fills in the next candle',()=>{
+ const groups=executionGroups(candles,[fill(99,'B','1','10'),fill(160,'A','1','12'),fill(340,'B','1','10')],60);
+ assert.equal(groups.length,1);assert.equal(groups[0].index,1);
+});

diff --git a/shared/executions.ts b/shared/executions.ts
@@ -1,0 +1,20 @@
+import { candleIndexAt, type Candle } from './market.js';
+import type { ReplayEvent } from './replay.js';
+export interface ExecutionGroup {
+  index: number; side: 'A'|'B'; size: number; notional: number; price: number; count: number; events: ReplayEvent[];
+}
+// Summaries are grouped by candle and side; original fills remain intact.
+export function executionGroups(candles:Candle[],events:ReplayEvent[],barSeconds:number):ExecutionGroup[]{
+  const groups=new Map<string,ExecutionGroup>();
+  for(const event of events){
+    if(event.kind!=='fill')continue;
+    const index=candleIndexAt(candles,event.time/1000);
+    if(index<0||event.time/1000>=candles[index].time+barSeconds)continue;
+    const key=`${index}:${event.side}`;
+    const group=groups.get(key)??{index,side:event.side,size:0,notional:0,price:0,count:0,events:[]};
+    group.size+=Number(event.size);group.notional+=Number(event.size)*Number(event.price);group.count++;group.events.push(event);group.price=group.notional/group.size;groups.set(key,group);
+  }
+  return [...groups.values()].sort((a,b)=>a.index-b.index);
+}
+export function tradeBars(groups:ExecutionGroup[]){return [...new Set(groups.map(g=>g.index))].sort((a,b)=>a-b);}
+export function nextTradeBar(bars:number[],cursor:number,direction:1|-1){return direction===1?bars.find(i=>i>cursor):bars.findLast(i=>i<cursor);}

diff --git a/src/OperationOverlay.ts b/src/OperationOverlay.ts
@@ -49,12 +49,11 @@ export class OperationOverlay implements ISeriesPrimitive {
         if(event.kind!=='fill' || !permitted(event) || event.time/1000 < first || event.time/1000 > last + 86400) continue;
         const px=x(event.time/1000), py=series.priceToCoordinate(Number(event.price));
         if(px===null || py===null || px<0 || px>mediaSize.width || py<0 || py>mediaSize.height) continue;
-        const radius=Math.min(13,Math.max(3,Math.sqrt(Number(event.size)*Number(event.price))/40));
+        const radius=2.5;
         const color=event.side==='B'?'#2dd4aa':'#fa6b7c';
-        ctx.globalAlpha=.22;ctx.fillStyle=color;ctx.beginPath();ctx.arc(px,py,radius,0,Math.PI*2);ctx.fill();
-        ctx.globalAlpha=.95;ctx.strokeStyle=color;ctx.lineWidth=1.2;ctx.stroke();
+        ctx.globalAlpha=.35;ctx.fillStyle=color;ctx.beginPath();ctx.arc(px,py,radius,0,Math.PI*2);ctx.fill();
+        ctx.globalAlpha=.55;ctx.strokeStyle=color;ctx.lineWidth=.7;ctx.stroke();
         ctx.beginPath();ctx.moveTo(px-2,py+(event.side==='B'?2:-2));ctx.lineTo(px,py+(event.side==='B'?-2:2));ctx.lineTo(px+2,py+(event.side==='B'?2:-2));ctx.stroke();
-        if(this.options.labels) {ctx.font='10px ui-monospace,monospace';ctx.fillStyle=color;ctx.fillText(`${event.side==='B'?'+':'−'}${event.size}`,px+radius+3,py+3);}
       }
       ctx.restore();
     });

diff --git a/README.md b/README.md
@@ -11,7 +11,7 @@ npm ci
 npm run dev
 ```
 
-Open http://127.0.0.1:5173. The app opens the multi-token example wallet `0x936cf4fb95c30ce83f658b5bbb247e4bb381bb0f`. **Load wallet** retrieves its saved snapshot (or syncs an unseen address); the refresh button syncs recent live history. Market shortcuts show current position direction and size. A snapshot fixture remains available at `/api/demo` for tests.
+Open http://127.0.0.1:5173. The app opens the most active fetched market in the multi-token example wallet `0x936cf4fb95c30ce83f658b5bbb247e4bb381bb0f`. **Load wallet** retrieves its saved snapshot (or syncs an unseen address); the refresh button syncs recent live history. Market shortcuts show current position direction and size. A snapshot fixture remains available at `/api/demo` for tests.
 
 For a single local service:
 
@@ -24,13 +24,14 @@ Open http://127.0.0.1:3001. The service binds to loopback. Wallet snapshots live
 
 ## First version
 
-- React + TypeScript terminal interface with TradingView Lightweight Charts: market candles, volume, actual fill bubbles at execution prices, estimated order lifetimes, observed position and closed PnL panes.
-- All available operations are shown initially. **Replay** advances candles with future candles and operations hidden. Play/pause, bar stepping, seek, speed, zoom, pan, and candle inspection are supported.
+- React + TypeScript terminal interface with TradingView Lightweight Charts: market candles, volume, actual execution dots plus explicit BUY/SELL arrows and aggregated quantities, estimated order lifetimes, observed position and closed PnL panes.
+- All available operations are shown initially. **Replay** defaults to trade replay: it skips empty candles and reveals each candle containing executed trades, with future candles and operations hidden. Candle-by-candle playback remains available in the replay mode selector. Play/pause, bar stepping, seek, speed, zoom, pan, and candle inspection are supported.
 - Multiple markets, automatic starting intervals, candle/line view, and execution/order/buy/sell/label filters. Current account metrics are explicitly separate from historical reconstruction.
 - Node + Express service with input validation, upstream timeouts, retry/backoff, and a sync cooldown.
 - SQLite saves raw API payloads as separate snapshots. Loading uses the latest snapshot; snapshots are not yet merged into continuous history.
 - Shared deterministic replay model, partial-fill handling, fill deduplication, and position discontinuity detection.
-- Explicit reported/inferred evidence labels and a synthetic demo.
+- An execution summary shows buy/sell quantity, volume-weighted average price and partial-fill count at the replay cursor. Arrows aggregate by candle and side; original fill records remain available under Operations. Partial labels are spaced to avoid overlap.
+- Explicit reported/inferred evidence labels and a synthetic demo fixture.
 
 ## Read the replay correctly
 

diff --git a/docs/PLAN.md b/docs/PLAN.md
@@ -29,7 +29,7 @@ Wallet sync and raw snapshot storage; deterministic event normalization; inferre
 
 ### 2. Market chart and multi-token workflow — implemented initial slice
 
-Replaced the event-price SVG with Lightweight Charts. Real market candles and volume are overlaid with execution bubbles at fill prices and estimated order lifetimes. Added aligned observed-position/closed-PnL panes, current-account metrics, candle inspection, zoom/pan, filters, and candle-driven replay that hides future observations. Market shortcuts expose current long/short positions, use token-specific price precision, and choose an initial interval based on history duration. The original H↗ REPLAY logo is preserved.
+Replaced the event-price SVG with Lightweight Charts. Real market candles and volume are overlaid with execution bubbles at fill prices and estimated order lifetimes. Added aligned observed-position/closed-PnL panes, current-account metrics, candle inspection, zoom/pan, filters, and candle-driven replay that hides future observations. Market shortcuts expose current long/short positions, use token-specific price precision, and choose an initial interval based on history duration. The original H↗ REPLAY logo is preserved. Explicit BUY/SELL arrows summarize executions by candle and side, with quantities and partial-fill counts. A visible execution summary follows the replay cursor. Trade replay is the default and skips empty candles; candle replay remains optional. The example opens the market with the largest number of fetched fills rather than defaulting to sparse BTC activity.
 
 The default example is `0x936cf4fb95c30ce83f658b5bbb247e4bb381bb0f`, a multi-token wallet. The earlier example `0xdae4df7207feb3b350e4284c8efe5f7dac37f637` was also checked with live API data. Neither address is embedded in test fixtures or credentials.
 
